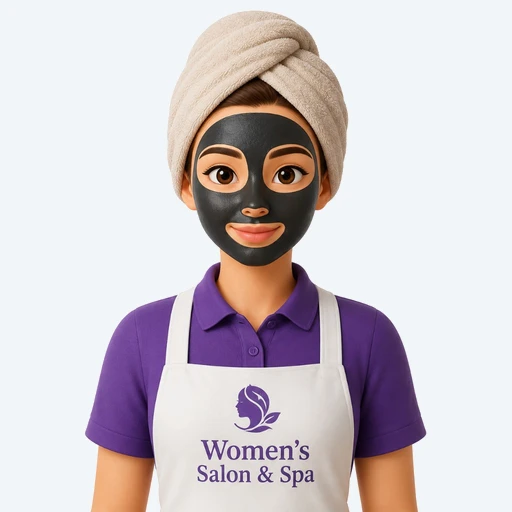
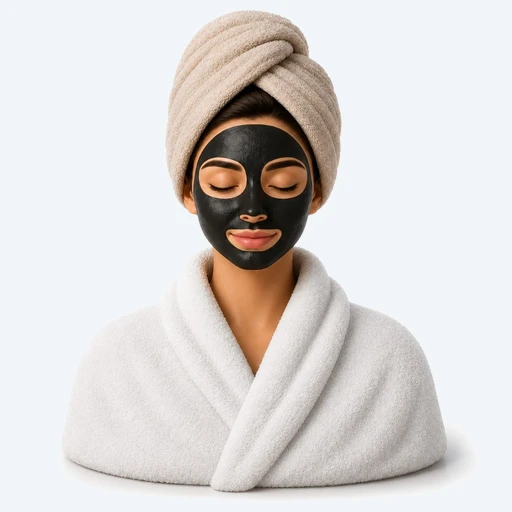
cart

Changed region(s): [[0.125, 0.0312, 0.9062, 1.0]]

diff --git a/user/src/components/home/Hero.jsx b/user/src/components/home/Hero.jsx
@@ -99,7 +99,7 @@ const ServiceTile = ({ tile, to }) => (
   <Link to={to} className="group flex flex-col items-center text-center">
     <div className="relative flex h-[72px] w-full items-center justify-center overflow-hidden rounded-xl bg-slate-100 transition group-hover:bg-slate-200/80 sm:h-[80px]">
       {tile.badge && (
-        <span className="absolute -top-2 left-1/2 z-10 -translate-x-1/2 whitespace-nowrap rounded bg-emerald-500 px-1.5 py-0.5 text-[10px] font-semibold text-white shadow-sm">
+        <span className="absolute inset-x-0 bottom-0 z-10 whitespace-nowrap bg-emerald-500 px-1 py-0.5 text-center text-[10px] font-semibold leading-tight text-white">
           {tile.badge}
         </span>
       )}